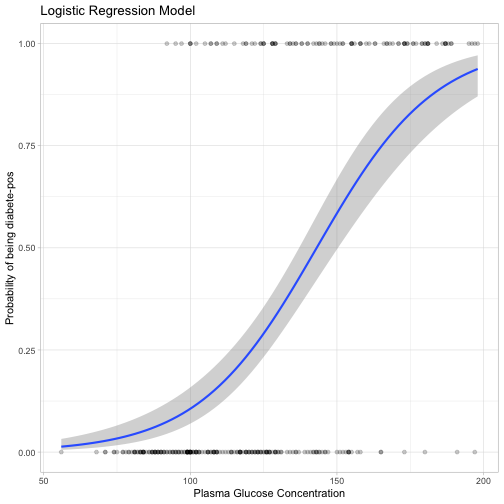
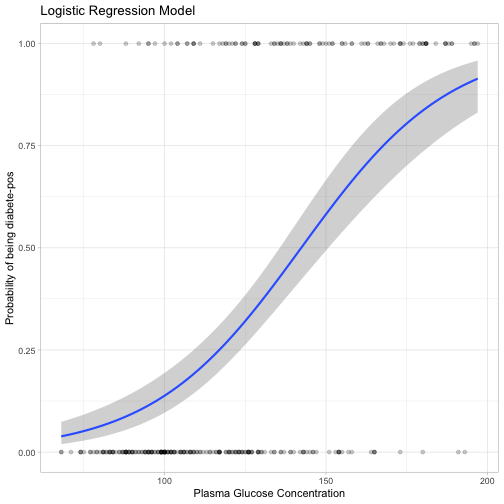
up

diff --git a/sessions/session11/slides.html b/sessions/session11/slides.html
@@ -40,7 +40,9 @@ The **input** variables can  be either continuous or categorical or a mix, but t
 **output** variable should be a category
 
 *Examples*: 
+
 Given an example, classify if an email is spam or not. 
+
 Given a handwritten character, classify it as one of the known characters.
 
 The model that allows to "classify" an object based on other variables is called a **classifier**.
@@ -186,6 +188,10 @@ library(caret)
 ##     lift
 ```
 
+```r
+set.seed(123)
+```
+
 Review the documentation for the library at CRAN.
 
 Read about the dataset `PimaIndiansDiabetes2`
@@ -216,8 +222,8 @@ summary(model)$coef
 
 ```
 ##                Estimate  Std. Error   z value     Pr(&gt;|z|)
-## (Intercept) -7.07654962 0.775947273 -9.119885 7.520434e-20
-## glucose      0.04945579 0.005787787  8.544852 1.287006e-17
+## (Intercept) -6.15882009 0.700096646 -8.797100 1.403974e-18
+## glucose      0.04327234 0.005341133  8.101716 5.418949e-16
 ```
 
 ```r
@@ -229,8 +235,8 @@ tidy(model)
 ## # A tibble: 2 x 5
 ##   term        estimate std.error statistic  p.value
 ##   &lt;chr&gt;          &lt;dbl&gt;     &lt;dbl&gt;     &lt;dbl&gt;    &lt;dbl&gt;
-## 1 (Intercept)  -7.08     0.776       -9.12 7.52e-20
-## 2 glucose       0.0495   0.00579      8.54 1.29e-17
+## 1 (Intercept)  -6.16     0.700       -8.80 1.40e-18
+## 2 glucose       0.0433   0.00534      8.10 5.42e-16
 ```
 ---
 
@@ -242,40 +248,45 @@ tidy(model)
 ## # A tibble: 2 x 5
 ##   term        estimate std.error statistic  p.value
 ##   &lt;chr&gt;          &lt;dbl&gt;     &lt;dbl&gt;     &lt;dbl&gt;    &lt;dbl&gt;
-## 1 (Intercept)  -7.08     0.776       -9.12 7.52e-20
-## 2 glucose       0.0495   0.00579      8.54 1.29e-17
+## 1 (Intercept)  -6.16     0.700       -8.80 1.40e-18
+## 2 glucose       0.0433   0.00534      8.10 5.42e-16
 ```
-The intercept (b0) is -6.32 and the coefficient of glucose variable is 0.043.
+The intercept (b0) is -6.16 and the coefficient of glucose variable is 0.043.
 
 The logistic equation can be written as
-p = exp(-6.32 + 0.043* glucose)/ [1 + exp(-6.32 + 0.043* glucose)]. 
+p = exp(-6.16 + 0.043* glucose)/ [1 + exp(-6.16 + 0.043* glucose)]. 
 
 Using this formula, for each new glucose plasma concentration value, you can predict the probability of the individuals in being diabetes positive.
 
 ---
+#Prediction
+
 Predictions can be easily made using the function `predict()`. Use the option type = “response” to directly obtain the probabilities
 
 
 ```r
 probabilities &lt;- model %&gt;% predict(test_data, type = "response")
-predicted.classes &lt;- ifelse(probabilities &gt; 0.5, "pos", "neg")
-predicted.classes
+predicted_classes &lt;- ifelse(probabilities &gt; 0.5, "pos", "neg")
+predicted_classes
 ```
 
 ```
-##     5     7    28    51    60    72    74    86    93    99   106   110   121 
-## "neg" "neg" "neg" "neg" "neg" "neg" "neg" "neg" "neg" "neg" "neg" "neg" "pos" 
-##   126   129   133   140   143   148   159   166   170   190   205   216   217 
-## "neg" "neg" "pos" "neg" "neg" "neg" "neg" "neg" "neg" "neg" "neg" "pos" "neg" 
-##   218   237   248   259   266   298   306   309   326   327   330   342   347 
-## "neg" "pos" "pos" "pos" "neg" "neg" "neg" "neg" "pos" "neg" "neg" "neg" "neg" 
-##   359   360   391   397   406   410   412   422   449   450   466   467   487 
-## "neg" "pos" "neg" "neg" "neg" "pos" "neg" "neg" "neg" "neg" "neg" "neg" "neg" 
-##   517   521   542   549   566   569   574   592   610   618   621   640   649 
-## "pos" "neg" "neg" "pos" "neg" "pos" "neg" "neg" "neg" "neg" "neg" "neg" "neg" 
-##   653   660   666   680   683   690   694   710   714   727   731   741   745 
-## "neg" "neg" "neg" "neg" "neg" "pos" "neg" "neg" "neg" "neg" "neg" "neg" "pos"
+##    19    21    32    55    64    71    72    74    98    99   108   111   115 
+## "neg" "neg" "pos" "pos" "neg" "neg" "neg" "neg" "neg" "neg" "pos" "pos" "pos" 
+##   128   154   182   215   216   224   229   260   293   297   313   316   326 
+## "neg" "pos" "neg" "neg" "pos" "neg" "pos" "pos" "neg" "pos" "pos" "neg" "pos" 
+##   357   369   376   385   386   393   394   410   429   447   450   453   468 
+## "neg" "neg" "neg" "neg" "neg" "neg" "neg" "pos" "neg" "neg" "neg" "neg" "neg" 
+##   470   477   487   541   542   546   552   555   556   562   563   564   577 
+## "pos" "neg" "neg" "neg" "neg" "pos" "neg" "neg" "neg" "pos" "neg" "neg" "neg" 
+##   589   592   595   600   609   610   621   634   666   673   674   681   683 
+## "pos" "neg" "neg" "neg" "pos" "neg" "neg" "neg" "neg" "neg" "neg" "neg" "neg" 
+##   694   697   699   710   716   717   719   722   731   733   734   746   766 
+## "neg" "pos" "neg" "neg" "pos" "pos" "neg" "neg" "neg" "pos" "neg" "neg" "neg"
 ```
+
+Think about  how to use `predict()` with more than 2 categories of responses
+
 ---
 To visualise:
 
@@ -313,10 +324,10 @@ tidy(model)
 ## # A tibble: 4 x 5
 ##   term        estimate std.error statistic  p.value
 ##   &lt;chr&gt;          &lt;dbl&gt;     &lt;dbl&gt;     &lt;dbl&gt;    &lt;dbl&gt;
-## 1 (Intercept)  -9.70     1.16        -8.37 6.00e-17
-## 2 glucose       0.0450   0.00583      7.72 1.16e-14
-## 3 mass          0.0771   0.0238       3.24 1.21e- 3
-## 4 pregnant      0.159    0.0471       3.38 7.20e- 4
+## 1 (Intercept)  -9.32     1.13        -8.28 1.23e-16
+## 2 glucose       0.0389   0.00540      7.19 6.43e-13
+## 3 mass          0.0946   0.0235       4.02 5.83e- 5
+## 4 pregnant      0.145    0.0451       3.21 1.35e- 3
 ```
 ---
 Here, we want to include all the predictor variables available in the data set. This is done using ~.:
@@ -330,19 +341,18 @@ tidy(model)
 ## # A tibble: 9 x 5
 ##   term          estimate std.error statistic  p.value
 ##   &lt;chr&gt;            &lt;dbl&gt;     &lt;dbl&gt;     &lt;dbl&gt;    &lt;dbl&gt;
-## 1 (Intercept) -10.9        1.43      -7.61   2.68e-14
-## 2 pregnant      0.0951     0.0644     1.48   1.40e- 1
-## 3 glucose       0.0439     0.00677    6.49   8.78e-11
-## 4 pressure      0.00255    0.0143     0.179  8.58e- 1
-## 5 triceps       0.0125     0.0197     0.635  5.26e- 1
-## 6 insulin      -0.000123   0.00150   -0.0824 9.34e- 1
-## 7 mass          0.0625     0.0322     1.94   5.24e- 2
-## 8 pedigree      0.998      0.506      1.97   4.86e- 2
-## 9 age           0.0303     0.0212     1.43   1.53e- 1
+## 1 (Intercept) -10.5        1.44      -7.32   2.54e-13
+## 2 pregnant      0.101      0.0613     1.64   1.01e- 1
+## 3 glucose       0.0371     0.00649    5.72   1.07e- 8
+## 4 pressure     -0.000388   0.0138    -0.0280 9.78e- 1
+## 5 triceps       0.0142     0.0200     0.710  4.78e- 1
+## 6 insulin       0.000594   0.00151    0.394  6.94e- 1
+## 7 mass          0.0800     0.0318     2.52   1.19e- 2
+## 8 pedigree      1.33       0.482      2.76   5.85e- 3
+## 9 age           0.0272     0.0202     1.35   1.78e- 1
 ```
 ---
 #Interpretation
-
 
 *Estimate*: the intercept (b0) and the beta coefficient estimates associated to each predictor variable
 
@@ -361,9 +371,9 @@ coef(model)
 
 ```
 ##   (Intercept)      pregnant       glucose      pressure       triceps 
-## -1.087700e+01  9.508021e-02  4.391056e-02  2.550560e-03  1.247292e-02 
+## -1.053400e+01  1.005031e-01  3.709621e-02 -3.875933e-04  1.417771e-02 
 ##       insulin          mass      pedigree           age 
-## -1.234563e-04  6.248319e-02  9.982695e-01  3.025300e-02
+##  5.939876e-04  7.997447e-02  1.329149e+00  2.718224e-02
 ```
 
 ```r
@@ -372,15 +382,15 @@ summary(model )$coef
 
 ```
 ##                  Estimate  Std. Error     z value     Pr(&gt;|z|)
-## (Intercept) -1.087700e+01 1.428744512 -7.61298029 2.678467e-14
-## pregnant     9.508021e-02 0.064433404  1.47563536 1.400418e-01
-## glucose      4.391056e-02 0.006769372  6.48665137 8.776510e-11
-## pressure     2.550560e-03 0.014272697  0.17870203 8.581717e-01
-## triceps      1.247292e-02 0.019656292  0.63455097 5.257213e-01
-## insulin     -1.234563e-04 0.001499003 -0.08235892 9.343613e-01
-## mass         6.248319e-02 0.032205546  1.94013750 5.236298e-02
-## pedigree     9.982695e-01 0.506207845  1.97205460 4.860337e-02
-## age          3.025300e-02 0.021176562  1.42860750 1.531171e-01
+## (Intercept) -1.053400e+01 1.439679266 -7.31690975 2.537464e-13
+## pregnant     1.005031e-01 0.061266974  1.64041157 1.009196e-01
+## glucose      3.709621e-02 0.006486093  5.71934633 1.069346e-08
+## pressure    -3.875933e-04 0.013826185 -0.02803328 9.776356e-01
+## triceps      1.417771e-02 0.019981885  0.70952823 4.779967e-01
+## insulin      5.939876e-04 0.001508231  0.39383055 6.937061e-01
+## mass         7.997447e-02 0.031798907  2.51500698 1.190300e-02
+## pedigree     1.329149e+00 0.482291020  2.75590704 5.852963e-03
+## age          2.718224e-02 0.020199295  1.34570257 1.783985e-01
 ```
 
 ```r
@@ -392,15 +402,15 @@ tidy(model)
 ## # A tibble: 9 x 5
 ##   term          estimate std.error statistic  p.value
 ##   &lt;chr&gt;            &lt;dbl&gt;     &lt;dbl&gt;     &lt;dbl&gt;    &lt;dbl&gt;
-## 1 (Intercept) -10.9        1.43      -7.61   2.68e-14
-## 2 pregnant      0.0951     0.0644     1.48   1.40e- 1
-## 3 glucose       0.0439     0.00677    6.49   8.78e-11
-## 4 pressure      0.00255    0.0143     0.179  8.58e- 1
-## 5 triceps       0.0125     0.0197     0.635  5.26e- 1
-## 6 insulin      -0.000123   0.00150   -0.0824 9.34e- 1
-## 7 mass          0.0625     0.0322     1.94   5.24e- 2
-## 8 pedigree      0.998      0.506      1.97   4.86e- 2
-## 9 age           0.0303     0.0212     1.43   1.53e- 1
+## 1 (Intercept) -10.5        1.44      -7.32   2.54e-13
+## 2 pregnant      0.101      0.0613     1.64   1.01e- 1
+## 3 glucose       0.0371     0.00649    5.72   1.07e- 8
+## 4 pressure     -0.000388   0.0138    -0.0280 9.78e- 1
+## 5 triceps       0.0142     0.0200     0.710  4.78e- 1
+## 6 insulin       0.000594   0.00151    0.394  6.94e- 1
+## 7 mass          0.0800     0.0318     2.52   1.19e- 2
+## 8 pedigree      1.33       0.482      2.76   5.85e- 3
+## 9 age           0.0272     0.0202     1.35   1.78e- 1
 ```
 
 ```r
@@ -412,13 +422,13 @@ augment(model)
 ##    .rownames diabetes pregnant glucose pressure triceps insulin  mass pedigree
 ##    &lt;chr&gt;     &lt;fct&gt;       &lt;dbl&gt;   &lt;dbl&gt;    &lt;dbl&gt;   &lt;dbl&gt;   &lt;dbl&gt; &lt;dbl&gt;    &lt;dbl&gt;
 ##  1 4         neg             1      89       66      23      94  28.1    0.167
-##  2 9         pos             2     197       70      45     543  30.5    0.158
-##  3 14        pos             1     189       60      23     846  30.1    0.398
-##  4 15        pos             5     166       72      19     175  25.8    0.587
-##  5 17        pos             0     118       84      47     230  45.8    0.551
-##  6 19        neg             1     103       30      38      83  43.3    0.183
-##  7 20        pos             1     115       70      30      96  34.6    0.529
-##  8 21        neg             3     126       88      41     235  39.3    0.704
+##  2 5         pos             0     137       40      35     168  43.1    2.29 
+##  3 7         pos             3      78       50      32      88  31      0.248
+##  4 9         pos             2     197       70      45     543  30.5    0.158
+##  5 14        pos             1     189       60      23     846  30.1    0.398
+##  6 15        pos             5     166       72      19     175  25.8    0.587
+##  7 17        pos             0     118       84      47     230  45.8    0.551
+##  8 20        pos             1     115       70      30      96  34.6    0.529
 ##  9 25        pos            11     143       94      33     146  36.6    0.254
 ## 10 26        pos            10     125       70      26     115  31.1    0.205
 ## # … with 304 more rows, and 7 more variables: age &lt;dbl&gt;, .fitted &lt;dbl&gt;,
@@ -434,22 +444,26 @@ The coefficient estimate of the variable glucose is b = 0.045, which is positive
 This means that an increase in glucose is associated with increase in the probability of being diabetes-positive. 
 
 The coefficient for the variable pressure is b = -0.007, which is negative. This means that an increase in blood pressure will be associated with a decreased probability of being diabetes-positive.
+---
 
-**Important** logistic beta coefficient is the odds ratio. 
+#**Important** logistic beta coefficient is the odds ratio. 
 
-An odds ratio measures the association between a predictor variable (x) and the outcome variable (y). 
+An odds ratio measures the association between a *predictor* variable (x) and the *outcome* variable (y). 
 
 It represents the ratio of the odds that an event will occur (event = 1) given the presence of the predictor x (x = 1), compared to the odds of the event occurring in the absence of that predictor (x = 0).
 
-For a given predictor (say x1), the associated beta coefficient (b1) in the logistic regression function corresponds to the log of the odds ratio for that predictor.
+For a given predictor (e.g x1), the associated beta coefficient (b1) in the logistic regression function corresponds to the log of the odds ratio for that predictor.
 
 If the odds ratio is 2, then the odds that the event occurs (event = 1) are two times higher when the predictor x is present (x = 1) versus x is absent (x = 0).
 
 For example, the regression coefficient for glucose is 0.042. This indicate that one unit increase in the glucose concentration will increase the odds of being diabetes-positive by exp(0.042) 1.04 times.
 
 From the logistic regression results, it can be noticed that some variables - triceps, insulin and age - are not statistically significant = they should be eliminated. 
+---
+#Significant predictors
 
 Select manually the most significant:
+
 
 ```r
 model &lt;- glm( diabetes ~ pregnant + glucose + pressure + mass + pedigree, 
@@ -464,12 +478,13 @@ The *classification error* is defined as the proportion of observations that hav
 
 Proportion of correctly classified observations:
 
+
 ```r
-mean(predicted.classes == test_data$diabetes)
+mean(predicted_classes == test_data$diabetes)
 ```
 
 ```
-## [1] 0.6923077
+## [1] 0.7692308
 ```
 
 The classification prediction accuracy is about 76%, which is good. 

diff --git a/sessions/session11/libs/header-attrs-2.7/header-attrs.js b/sessions/session11/libs/header-attrs-2.7/header-attrs.js
@@ -1,0 +1,12 @@
+// Pandoc 2.9 adds attributes on both header and div. We remove the former (to
+// be compatible with the behavior of Pandoc < 2.8).
+document.addEventListener('DOMContentLoaded', function(e) {
+  var hs = document.querySelectorAll("div.section[class*='level'] > :first-child");
+  var i, h, a;
+  for (i = 0; i < hs.length; i++) {
+    h = hs[i];
+    if (!/^h[1-6]$/i.test(h.tagName)) continue;  // it should be a header h1-h6
+    a = h.attributes;
+    while (a.length > 0) h.removeAttribute(a[0].name);
+  }
+});

diff --git a/sessions/session11/libs/header-attrs/header-attrs.js b/sessions/session11/libs/header-attrs/header-attrs.js
@@ -1,0 +1,12 @@
+// Pandoc 2.9 adds attributes on both header and div. We remove the former (to
+// be compatible with the behavior of Pandoc < 2.8).
+document.addEventListener('DOMContentLoaded', function(e) {
+  var hs = document.querySelectorAll("div.section[class*='level'] > :first-child");
+  var i, h, a;
+  for (i = 0; i < hs.length; i++) {
+    h = hs[i];
+    if (!/^h[1-6]$/i.test(h.tagName)) continue;  // it should be a header h1-h6
+    a = h.attributes;
+    while (a.length > 0) h.removeAttribute(a[0].name);
+  }
+});
